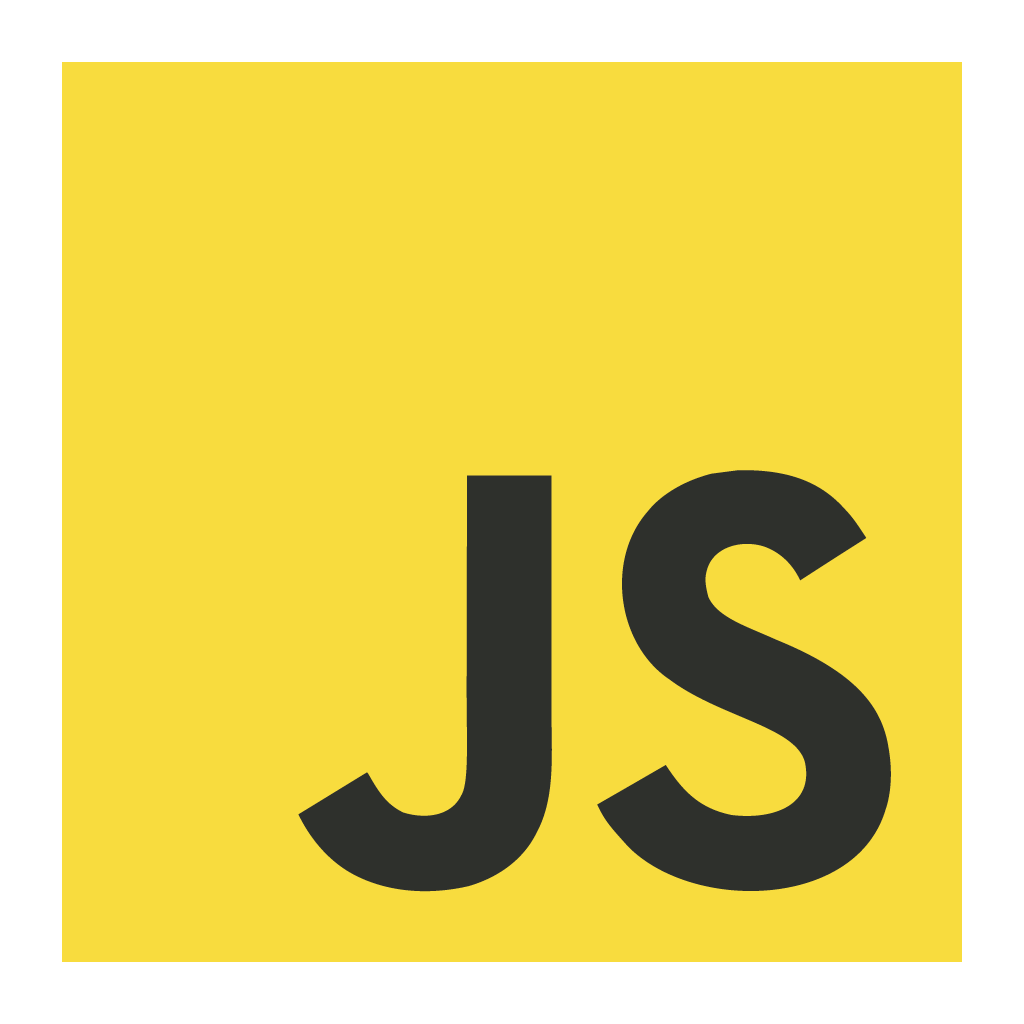
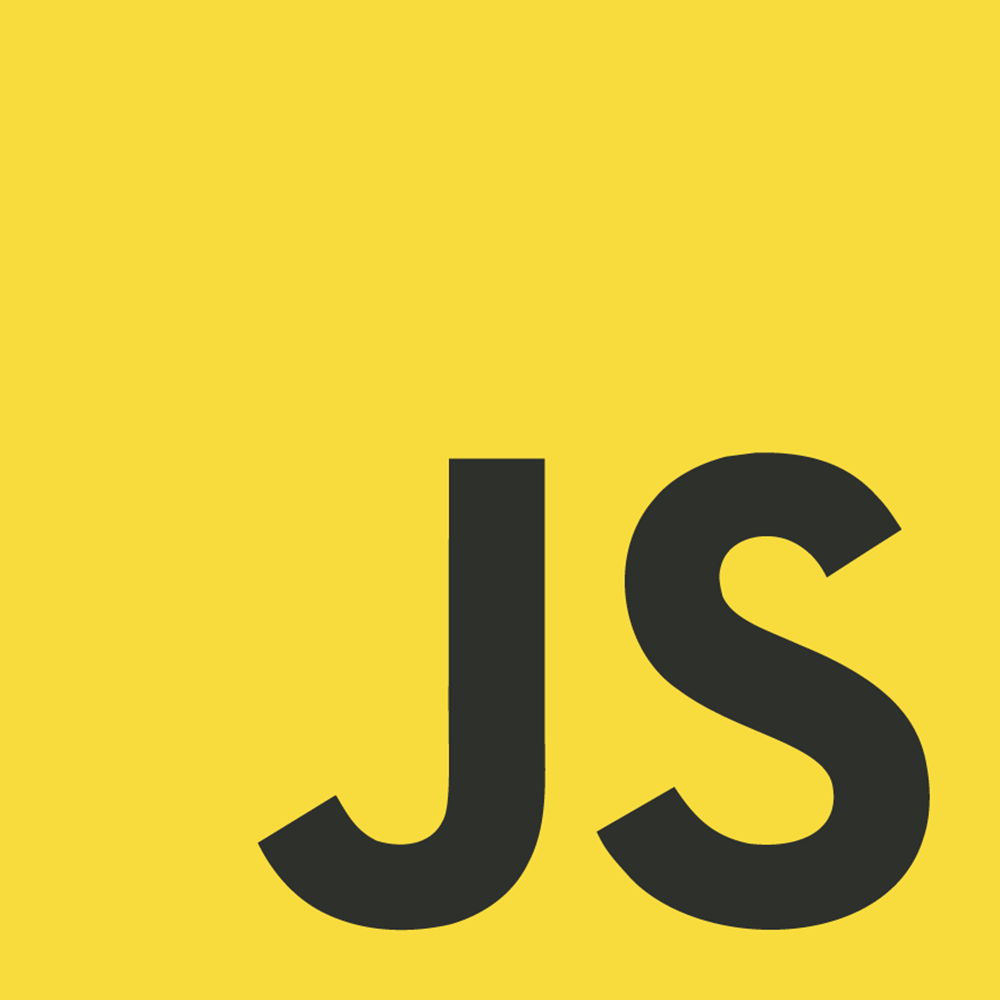
0

diff --git a/src/components/Certifications .js b/src/components/Certifications .js
@@ -9,24 +9,27 @@ const Certifications = () => {
   const certifications = [
     {
       name: "Certification 1",
-      image: {html},
+      image:
+        "https://github.com/Abu-ellil/AbuEllil/blob/main/src/img/certf/code.png?raw=true",
       issuer: "Issuer 1",
       date: "May 2021",
-      link: "https://example.com/certification-1",
+      link: "https://www.udemy.com/certificate/UC-a731ae10-edd2-4291-906b-0b148d8703f0/",
     },
     {
       name: "Certification 2",
-      image: {js},
+      image:
+        "https://github.com/Abu-ellil/AbuEllil/blob/main/src/img/certf/js.png?raw=true",
       issuer: "Issuer 2",
       date: "June 2021",
       link: "https://example.com/certification-2",
     },
     {
       name: "Certification 3",
-      image: "https://picsum.photos/200",
+      image:
+        "https://cdn.lynda.com/courses/751331-636924050181962939_540x960_thumb.jpg",
       issuer: "Issuer 3",
       date: "July 2021",
-      link: "https://example.com/certification-3",
+      link: "https://www.linkedin.com/learning/certificates/7e74ef7e58ab08aa3be9d7ab3cf3cb237a2d9527bb68b87b871905c225e6996b",
     },
   ];
 

diff --git a/src/style/style.css b/src/style/style.css
@@ -477,6 +477,7 @@ p {
   width: 100%;
   height: 100%;
   backface-visibility: hidden;
+  overflow: hidden;
 }
 
 .certification-card-front {
@@ -487,7 +488,7 @@ p {
   background-color: white;
   border-radius: 10px;
   box-shadow: 0px 4px 10px rgba(0, 0, 0, 0.2);
-  padding: 20px;
+  padding: 0px;
 }
 
 .certification-card-front img {
